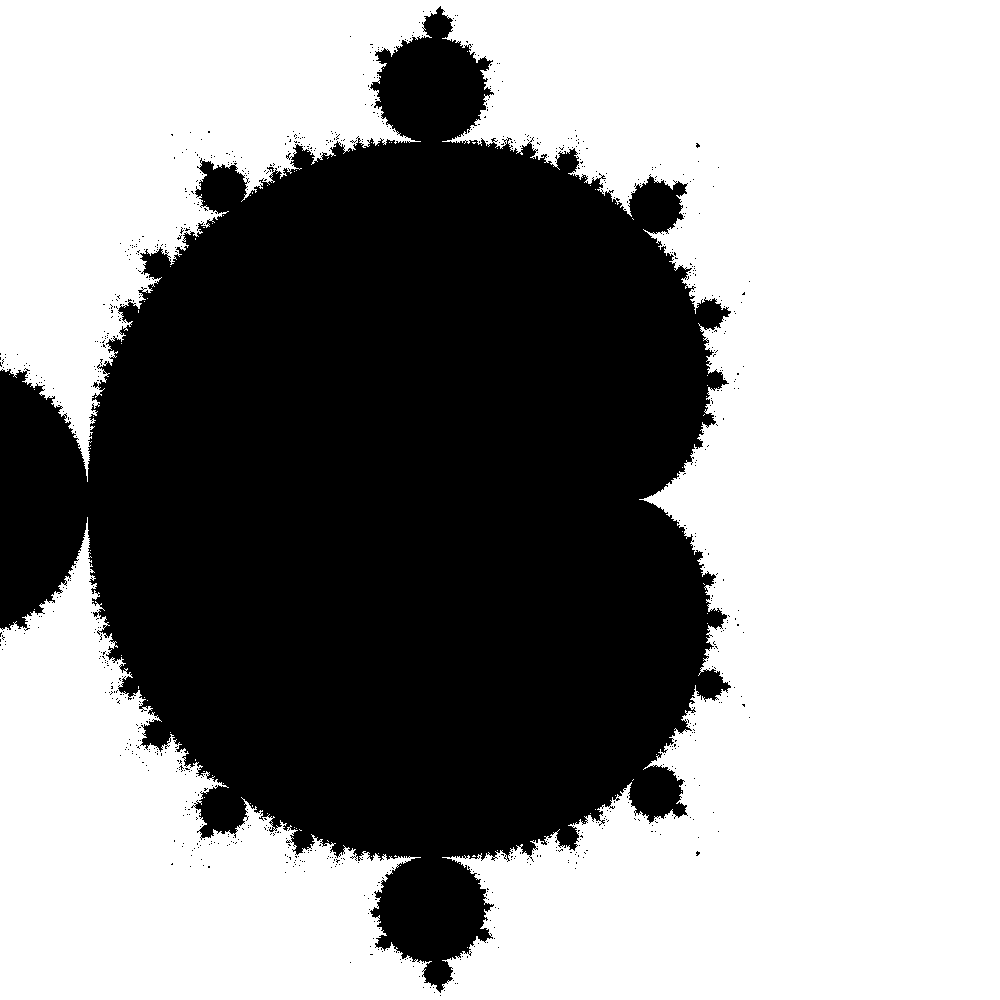
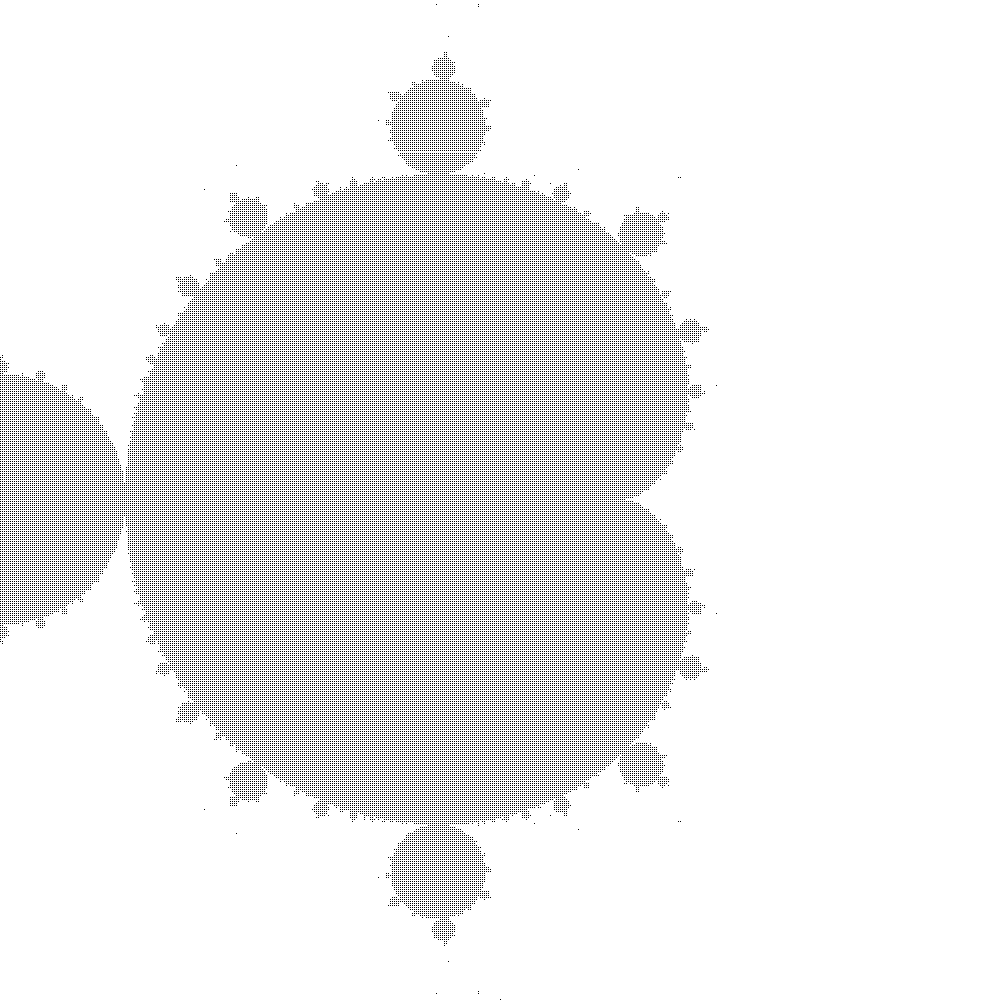
add movement using arrows and increase quality

diff --git a/src/main.rs b/src/main.rs
@@ -6,13 +6,13 @@ use std::{
     sync::{Arc, Mutex},
 };
 
-// const ZOOM: f32 = 1.0 / 2.0;
-const RESOLUTION_Y: usize = 1000;
+// const ZOOM: f64 = 1.0 / 2.0;
+const RESOLUTION_Y: usize = 500;
 const RESOLUTION_X: usize = RESOLUTION_Y / THREAD_NUMBER;
-const WIDTH: u32 = 1000;
-const HEIGHT: u32 = 1000;
+const WIDTH: u32 = 500;
+const HEIGHT: u32 = 500;
 const N: u32 = 1000;
-const THREAD_NUMBER: usize = 250;
+const THREAD_NUMBER: usize = 50;
 
 fn main() {
     let mut window = Window::new(
@@ -25,25 +25,41 @@ fn main() {
 
     let mut generate = true;
     let mut u32_buffer = vec![0; (WIDTH * HEIGHT) as usize];
-    let mut ZOOM = 1.0;
+    let mut zoom = 1.1;
+    let mut x0 = 0.0;
+    let mut y0 = 0.0;
     while window.is_open() && !window.is_key_down(Key::Escape) {
-        if window.is_key_down(Key::Space) {
-            println!("click");
-        }
+        if window.is_key_down(Key::Space) {}
         if window.is_key_down(Key::Z) {
-            ZOOM += 1.0 / 10.0;
+            zoom += zoom / 10.0;
             generate = true;
         }
         if window.is_key_down(Key::X) {
-            ZOOM -= 1.0 / 10.0;
-            if ZOOM == 0.0 {
-                ZOOM = 1.0 / 10.0
+            zoom -= zoom / 10.0;
+            if zoom < 0.0 {
+                zoom = 0.0;
             }
+            generate = true;
+        }
+        if window.is_key_down(Key::Right) {
+            x0 += 0.5 / zoom;
+            generate = true;
+        }
+        if window.is_key_down(Key::Left) {
+            x0 -= 0.5 / zoom;
+            generate = true;
+        }
+        if window.is_key_down(Key::Up) {
+            y0 += 0.5 / zoom;
+            generate = true;
+        }
+        if window.is_key_down(Key::Down) {
+            y0 -= 0.5 / zoom;
             generate = true;
         }
 
         if generate {
-            draw(ZOOM).expect("Unable to draw");
+            draw(zoom, x0, y0).expect("Unable to draw");
             let decoder = png::Decoder::new(File::open("plotters-doc-data/0.png").unwrap());
             let mut reader = decoder.read_info().unwrap();
             let mut buf = vec![0; reader.info().raw_bytes()];
@@ -68,14 +84,17 @@ fn main() {
     }
 }
 
-fn draw(ZOOM: f32) -> Result<()> {
+fn draw(zoom: f64, x0: f64, y0: f64) -> Result<()> {
     let root = BitMapBackend::new("plotters-doc-data/0.png", (WIDTH, HEIGHT)).into_drawing_area();
     root.fill(&WHITE).unwrap();
     let mut chart = ChartBuilder::on(&root)
-        .build_cartesian_2d((-1f32 / ZOOM)..(1f32 / ZOOM), (-1f32 / ZOOM)..(1f32 / ZOOM))
+        .build_cartesian_2d(
+            (x0 - 1f64 / zoom)..(x0 + 1f64 / zoom),
+            (y0 - 1f64 / zoom)..(y0 + 1f64 / zoom),
+        )
         .unwrap();
 
-    let set = mandelbrot_generate_threading(ZOOM);
+    let set = mandelbrot_generate_threading(zoom, x0, y0);
     let coords = set.into_iter();
 
     chart
@@ -84,21 +103,23 @@ fn draw(ZOOM: f32) -> Result<()> {
     Ok(())
 }
 
-fn mandelbrot_generate_threading(ZOOM: f32) -> Vec<(f32, f32)> {
+fn mandelbrot_generate_threading(zoom: f64, x0: f64, y0: f64) -> Vec<(f64, f64)> {
     let mut handles = Vec::with_capacity(THREAD_NUMBER);
     let set_vectors = Arc::new(Mutex::new(vec![
-        Vec::<(f32, f32)>::with_capacity(
+        Vec::<(f64, f64)>::with_capacity(
             RESOLUTION_X * RESOLUTION_Y
         );
         THREAD_NUMBER
     ]));
     for i in 0..THREAD_NUMBER {
-        let d = 2.0 * (1f32 / ZOOM) / THREAD_NUMBER as f32;
-        let x_range = ((-1f32 / ZOOM) + d * (i as f32))..((-1f32 / ZOOM) + d * ((i + 1) as f32));
-        let y_range = (-1f32 / ZOOM)..(1f32 / ZOOM);
+        let d = 2.0 * (1f64 / zoom) / THREAD_NUMBER as f64;
+        let x_range =
+            (x0 + (-1f64 / zoom) + d * (i as f64))..(x0 + (-1f64 / zoom) + d * ((i + 1) as f64));
+        let y_range = (y0 - 1f64 / zoom)..(y0 + 1f64 / zoom);
         let set_vectors = Arc::clone(&set_vectors);
         let handle = std::thread::spawn(move || {
-            let mandelbrot_part = mandelbrot_generate(x_range, y_range);
+            let mandelbrot_part =
+                mandelbrot_generate(x_range, y_range, N + zoom.sqrt().ln() as u32);
             {
                 let mut set_vectors = set_vectors.lock().unwrap();
                 set_vectors[i] = mandelbrot_part;
@@ -116,32 +137,33 @@ fn mandelbrot_generate_threading(ZOOM: f32) -> Vec<(f32, f32)> {
     set
 }
 
-fn mandelbrot_generate(x_range: Range<f32>, y_range: Range<f32>) -> Vec<(f32, f32)> {
+fn mandelbrot_generate(x_range: Range<f64>, y_range: Range<f64>, n_var: u32) -> Vec<(f64, f64)> {
     let dx = x_range.end - x_range.start;
     let dy = y_range.end - y_range.start;
-    let mut result: Vec<(f32, f32)> = Vec::with_capacity(RESOLUTION_X * RESOLUTION_Y);
+    let mut result: Vec<(f64, f64)> = Vec::with_capacity(RESOLUTION_X * RESOLUTION_Y);
     let mut y = y_range.start;
-    for i in 0..RESOLUTION_Y {
+    for _i in 0..RESOLUTION_Y {
         let mut x = x_range.start;
-        for j in 0..RESOLUTION_X {
-            let mut x_current = 0f32;
-            let mut y_current = 0f32;
+        for _j in 0..RESOLUTION_X {
+            let mut x_current = 0f64;
+            let mut y_current = 0f64;
             let p = x;
             let q = y;
             let mut n = 0;
-            while n < N && (x_current * x_current - y_current * y_current) < 2.0 {
+            while n < n_var && (x_current * x_current - y_current * y_current) < 2.0 {
                 let x_prev = x_current;
                 let y_prev = y_current;
                 x_current = x_prev * x_prev - y_prev * y_prev + p;
                 y_current = 2.0 * x_prev * y_prev + q;
                 n += 1;
             }
-            if n == N {
+            if n == n_var {
                 result.push((p, q));
             }
-            x += dx / RESOLUTION_X as f32;
+            x += dx / RESOLUTION_X as f64;
         }
-        y += dy / RESOLUTION_Y as f32;
+        y += dy / RESOLUTION_Y as f64;
     }
+    println!("{:?} {:?}", x_range, y_range);
     result
 }
